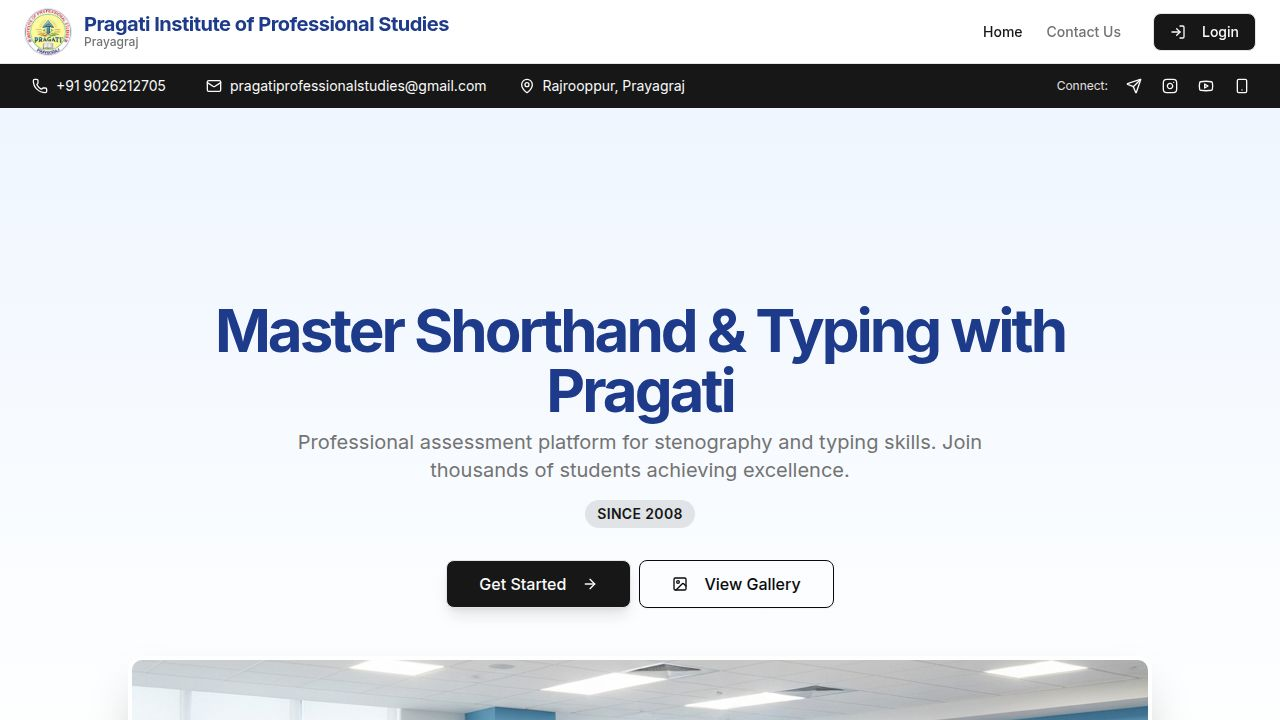
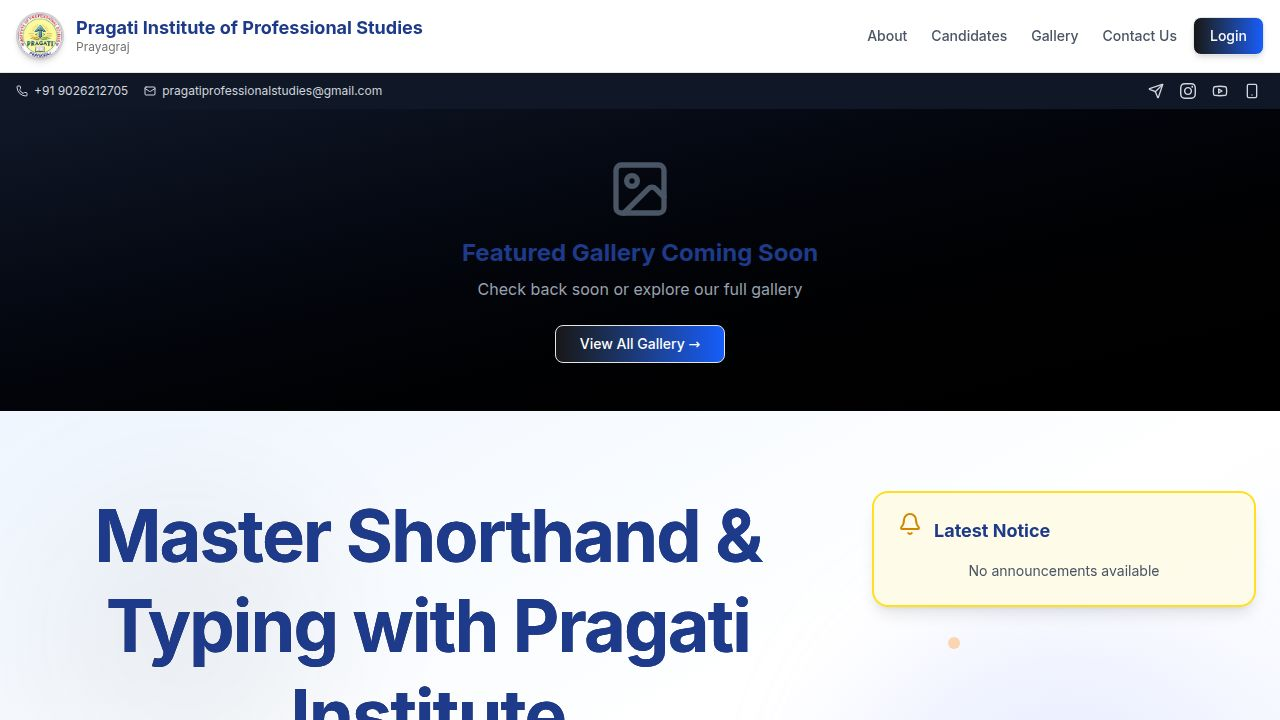
Fix application crash by removing unnecessary polyfills and installing missing packages
Remove imports for 'resize-observer-polyfill' and 'intersection-observer' from src/main.tsx and install missing 'busboy' package.

Replit-Commit-Author: Agent
Replit-Commit-Session-Id: b3ef21c4-ce32-425a-9eda-1190445eb480
Replit-Commit-Checkpoint-Type: full_checkpoint
Replit-Commit-Event-Id: 36142aea-7475-4a96-b93d-2060f763c7b8
Replit-Commit-Screenshot-Url: https://storage.googleapis.com/screenshot-production-us-central1/021dbaf9-2a27-4c10-b4e4-22a39a46ffd0/b3ef21c4-ce32-425a-9eda-1190445eb480/YN3IUVw
Replit-Helium-Checkpoint-Created: true

diff --git a/client/src/main.tsx b/client/src/main.tsx
@@ -1,5 +1,3 @@
-import "resize-observer-polyfill";
-import "intersection-observer";
 import { createRoot } from "react-dom/client";
 import App from "./App";
 import "./index.css";
